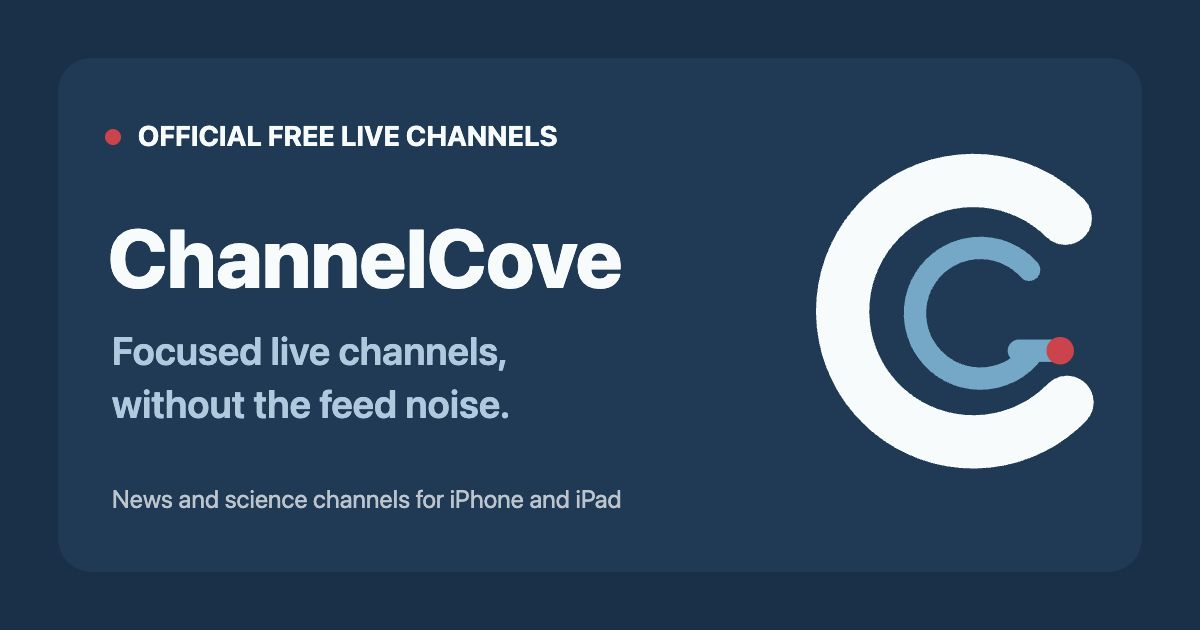
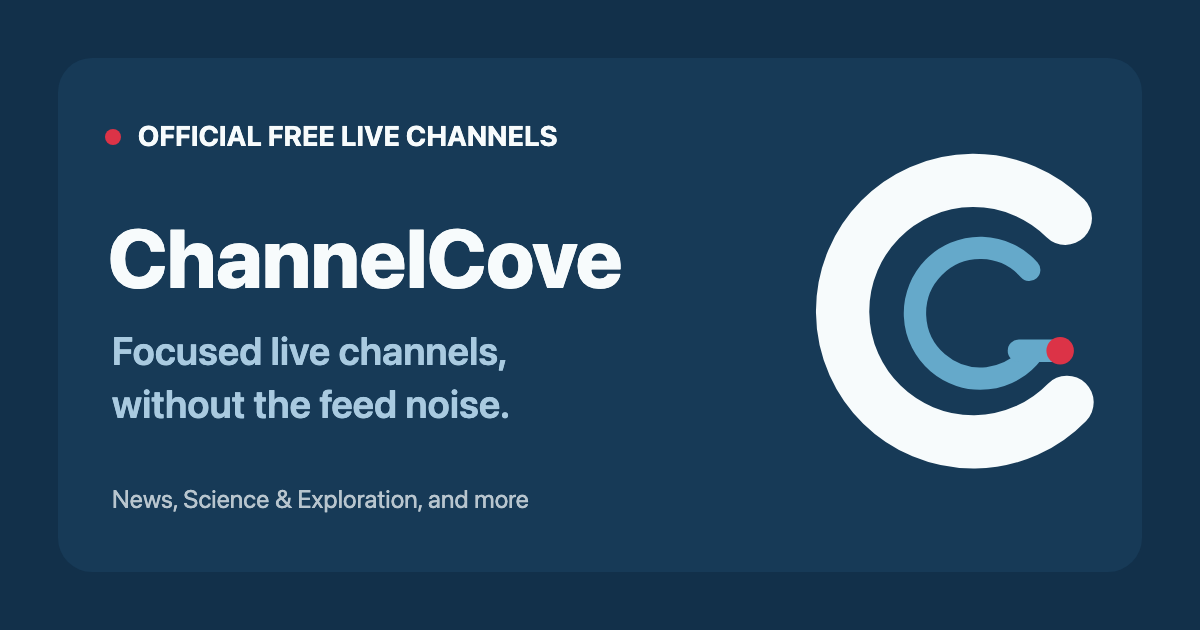
Update ChannelCove site browsing copy

Changed region(s): [[0.1233, 0.7841, 0.5242, 0.8143], [0.8633, 0.5127, 0.8942, 0.573], [0.0925, 0.2111, 0.1233, 0.2413]]

diff --git a/index.html b/index.html
@@ -4,7 +4,7 @@
     <meta charset="utf-8">
     <meta name="viewport" content="width=device-width, initial-scale=1">
     <title>ChannelCove - Focused live channels</title>
-    <meta name="description" content="Watch selected official free live news, Science & Exploration, and more channels in one focused iPhone and iPad app.">
+    <meta name="description" content="Browse selected official free live news, Science & Exploration, and more channels in one focused iPhone and iPad app.">
     <meta name="robots" content="noindex, nofollow, noarchive">
     <link rel="canonical" href="https://channelcove.com/">
     <meta property="og:type" content="website">
@@ -36,8 +36,8 @@
       <main>
         <section class="hero">
           <span class="eyebrow">Official free live channels</span>
-          <h1>Watch focused live channels without the feed noise.</h1>
-          <p class="lead">ChannelCove is a lightweight iPhone and iPad app for watching curated official live news, Science & Exploration, and more channels, with simple favorites, sharing, and feedback.</p>
+          <h1>Browse focused live channels without the feed noise.</h1>
+          <p class="lead">ChannelCove is a lightweight iPhone and iPad app for browsing curated official live news, Science & Exploration, and more channels, with simple favorites, sharing, and feedback.</p>
           <div class="actions">
             <a class="button" href="/support/">Support</a>
             <a class="button secondary" href="/privacy/">Privacy Policy</a>

diff --git a/terms/index.html b/terms/index.html
@@ -28,7 +28,7 @@
         <p>ChannelCove is published by ELYXAN LLC.</p>
 
         <h2>Purpose</h2>
-        <p>ChannelCove provides a simple way to watch selected official public live channels, including news, Science & Exploration, and more. The app does not own, operate, or control the live streams shown through embedded players or official source pages.</p>
+        <p>ChannelCove provides a simple way to browse selected official public live channels, including news, Science & Exploration, and more. The app does not own, operate, or control the live streams shown through embedded players or official source pages.</p>
 
         <h2>Channel Availability</h2>
         <p>Live channels may change, stop, become unavailable, show third-party errors, or be restricted by source, region, network, or device conditions. ChannelCove may add, remove, or update channels at any time.</p>

diff --git a/privacy/index.html b/privacy/index.html
@@ -25,7 +25,7 @@
         <p>Last updated: June 18, 2026</p>
 
         <h2>Overview</h2>
-        <p>ChannelCove is published by ELYXAN LLC. The app is designed to provide a simple way to watch selected official live news, Science & Exploration, and more channels while collecting as little information as practical.</p>
+        <p>ChannelCove is published by ELYXAN LLC. The app is designed to provide a simple way to browse selected official live news, Science & Exploration, and more channels while collecting as little information as practical.</p>
 
         <h2>Information We Collect</h2>
         <p>ChannelCove does not require an account. The app may store local preferences on your device, such as favorite channels, last watched channel, and playback preferences. These preferences stay on your device unless a future version clearly explains otherwise.</p>
